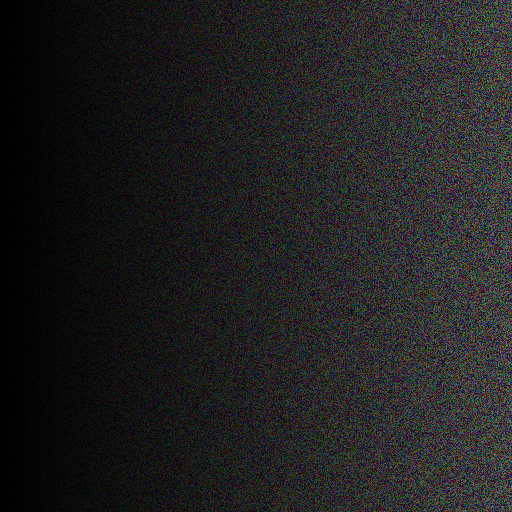
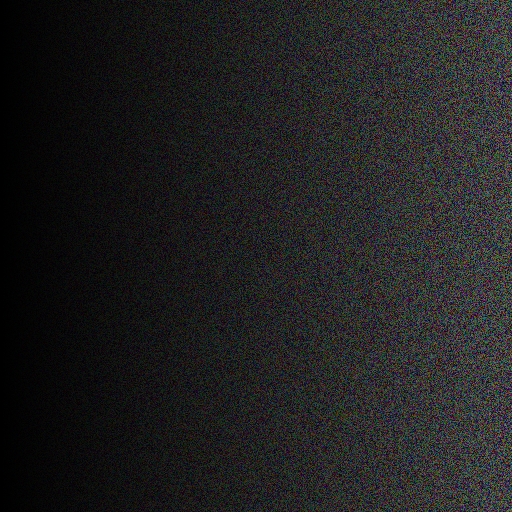
Removed compute testing code

diff --git a/chess_view/source/main.cpp b/chess_view/source/main.cpp
@@ -367,104 +367,8 @@ int main()
 		_state.insert_artist(std::move(_artist));
 	};
 
-
-	int tex_w = 512, tex_h = 512;
-	GLuint tex_output;
-	glGenTextures(1, &tex_output);
-	glActiveTexture(GL_TEXTURE0);
-	glBindTexture(GL_TEXTURE_2D, tex_output);
-	glTexParameteri(GL_TEXTURE_2D, GL_TEXTURE_WRAP_S, GL_CLAMP_TO_EDGE);
-	glTexParameteri(GL_TEXTURE_2D, GL_TEXTURE_WRAP_T, GL_CLAMP_TO_EDGE);
-	glTexParameteri(GL_TEXTURE_2D, GL_TEXTURE_MAG_FILTER, GL_LINEAR);
-	glTexParameteri(GL_TEXTURE_2D, GL_TEXTURE_MIN_FILTER, GL_LINEAR);
-	glTexImage2D(GL_TEXTURE_2D, 0, GL_RGBA32F, tex_w, tex_h, 0, GL_RGBA, GL_FLOAT,
-		NULL);
-	glBindImageTexture(0, tex_output, 0, GL_FALSE, 0, GL_WRITE_ONLY, GL_RGBA32F);
-	
-	GLuint tex_input;
-	glGenTextures(1, &tex_input);
-	glActiveTexture(GL_TEXTURE1);
-	glBindTexture(GL_TEXTURE_2D, tex_input);
-	glTexParameteri(GL_TEXTURE_2D, GL_TEXTURE_WRAP_S, GL_CLAMP_TO_EDGE);
-	glTexParameteri(GL_TEXTURE_2D, GL_TEXTURE_WRAP_T, GL_CLAMP_TO_EDGE);
-	glTexParameteri(GL_TEXTURE_2D, GL_TEXTURE_MAG_FILTER, GL_LINEAR);
-	glTexParameteri(GL_TEXTURE_2D, GL_TEXTURE_MIN_FILTER, GL_LINEAR);
-	glTexImage2D(GL_TEXTURE_2D, 0, GL_RGBA32F, tex_w, tex_h, 0, GL_RGBA, GL_FLOAT,
-		NULL);
-	glBindImageTexture(1, tex_input, 0, GL_FALSE, 0, GL_READ_ONLY, GL_RGBA32F);
-
-	{
-		std::vector<float> _inputPixels(tex_w * tex_h * 4, 0.0f);
-		std::random_device _rnd{};
-		std::mt19937 _mt(_rnd());
-		std::uniform_real_distribution<float> _dist{ 0.0f, 1.0f };
-		for (auto& f : _inputPixels)
-		{
-			f = _dist(_mt);
-		};
-		glTextureSubImage2D(tex_input, 0, 0, 0, tex_w, tex_h, GL_RGBA, GL_FLOAT, _inputPixels.data());
-	}
-
-
-	int _work_group_count[3];
-	glGetIntegeri_v(GL_MAX_COMPUTE_WORK_GROUP_COUNT, 0, &_work_group_count[0]);
-	glGetIntegeri_v(GL_MAX_COMPUTE_WORK_GROUP_COUNT, 1, &_work_group_count[1]);
-	glGetIntegeri_v(GL_MAX_COMPUTE_WORK_GROUP_COUNT, 2, &_work_group_count[2]);
-	printf("max global (total) work group counts x:%i y:%i z:%i\n",
-		_work_group_count[0], _work_group_count[1], _work_group_count[2]);
-
-	int _work_group_size[3]{};
-	glGetIntegeri_v(GL_MAX_COMPUTE_WORK_GROUP_SIZE, 0, &_work_group_size[0]);
-	glGetIntegeri_v(GL_MAX_COMPUTE_WORK_GROUP_SIZE, 1, &_work_group_size[1]);
-	glGetIntegeri_v(GL_MAX_COMPUTE_WORK_GROUP_SIZE, 2, &_work_group_size[2]);
-	printf("max local (in one shader) work group sizes x:%i y:%i z:%i\n",
-		_work_group_size[0], _work_group_size[1], _work_group_size[2]);
-
-	gl::shader_id ray_shader{ glCreateShader(GL_COMPUTE_SHADER) };
-	gl::set_shader_source(ray_shader, read_text_file(SOURCE_ROOT "/assets/shaders/compute.glsl"));
-	if (!gl::compile(ray_shader))
-	{
-		std::cout << gl::get_info_log(ray_shader) << '\n';
-		return 2;
-	};
-
-	auto ray_program = gl::new_program();
-	gl::attach(ray_program, ray_shader);
-	if (!gl::link(ray_program))
-	{
-		std::cout << gl::get_info_log(ray_program) << '\n';
-		return 2;
-	};
-
 	while (_state.keep_running())
 	{
-		{ // launch compute shaders!
-			gl::bind(ray_program);
-			glDispatchCompute((GLuint)tex_w, (GLuint)tex_h, 1);
-			if (const auto _err = glGetError(); _err != GL_NO_ERROR)
-			{
-				__debugbreak();
-			};
-		};
-
-		// make sure writing to image has finished before read
-		glMemoryBarrier(GL_SHADER_IMAGE_ACCESS_BARRIER_BIT);
-		if (const auto _err = glGetError(); _err != GL_NO_ERROR)
-		{
-			__debugbreak();
-		};
-
-		std::vector<unsigned char> _texBuffer(tex_w * tex_h * 4);
-		glGetTextureImage(tex_output, 0, GL_RGBA, GL_UNSIGNED_BYTE, _texBuffer.size(), _texBuffer.data());
-		{
-			lodepng::encode(SOURCE_ROOT "/testdump.png", _texBuffer, tex_w, tex_h);
-		};
-		if (const auto _err = glGetError(); _err != GL_NO_ERROR)
-		{
-			__debugbreak();
-		};
-
-		break;
 		_state.update();
 	};
 
